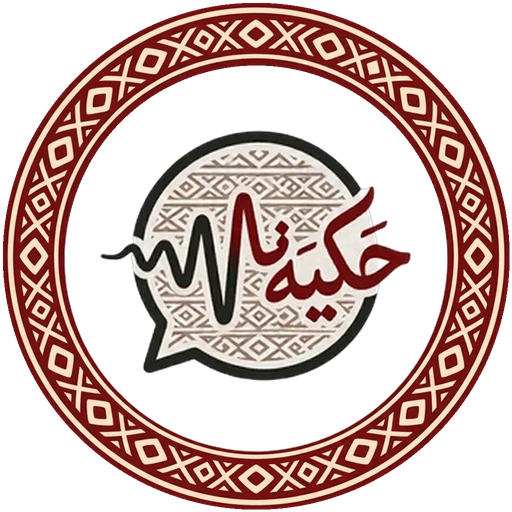
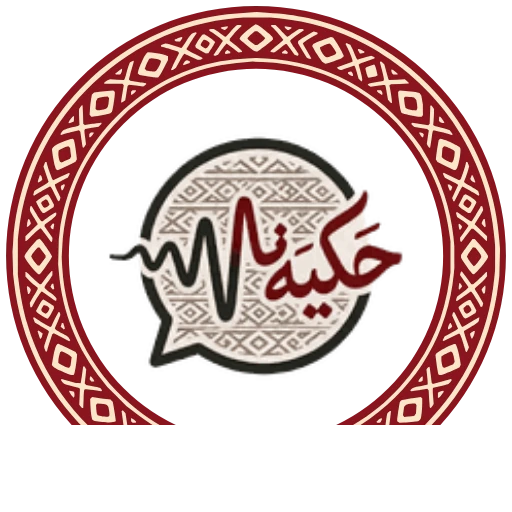
Give the mark its sadu frame, in two grounds
Both frames ship as vector, traced from the render rather than redrawn,
for the reason already recorded for the play button: a repeat built by
hand is a fraction of the size and does not look like the artwork anyone
chose. 38kB each, 15kB gzipped.

The mark is not baked into either of them. The frames carry the band
alone and SaduMark composites hakiya-mark.png into whichever is asked
for, so the logo keeps one source of truth on disk — clean it up later
and both variants follow. A test fails if a frame ever grows an <image>.

Sand is the default because clear is the variant that fails on a dark
surface: the mark's outline is near-black and needs something light to be
dark against. Defaulting to clear would put the broken case in every slot
that forgets the prop. Clear is for light surfaces, where a sand disc
reads as a second and slightly wrong shade.

Two numbers have to agree and nothing in the type system makes them: the
band's opening is 73% of the box and the mark sits at 62% of it. A test
holds the clearance, because crowding the band is what makes a framed
mark look like a sticker.

Wired into the emblem's fallback and nowhere else yet. That slot is a
round hole that took the bare mark with padding, a background and a ring
— three CSS properties standing in for the plate the artwork did not
have. All three go.

Not BrandMark, and the note in docs suggesting otherwise is corrected
here. That lockup's plate serves the wordmark as much as the mark, so
[…]

diff --git a/src/components/brand/SaduMark.test.tsx b/src/components/brand/SaduMark.test.tsx
@@ -1,0 +1,89 @@
+import { readFileSync } from "node:fs";
+import { render } from "@testing-library/react";
+import { describe, expect, it } from "vitest";
+import { MARK_WIDTH_PERCENT, SaduMark } from "./SaduMark";
+
+/**
+ * The framed mark.
+ *
+ * The component is thin — two images stacked — so the things worth guarding
+ * are the relationship between them and the artwork they come from. Both
+ * frames are traced output, the kind of file someone re-exports without
+ * noticing what it cost to get.
+ */
+
+const SAND = readFileSync("src/assets/sadu-frame-sand.svg", "utf8");
+const CLEAR = readFileSync("src/assets/sadu-frame.svg", "utf8");
+
+/** The band's inner edge, read off the annulus the frame is drawn with. */
+const innerRadius = (svg: string) =>
+  Number(svg.match(/A(\d+\.?\d*) \1 0 1 0/g)?.slice(-1)[0]?.match(/[\d.]+/)?.[0] ?? NaN);
+
+describe("SaduMark", () => {
+  it("is ornament unless it is given a label", () => {
+    const { container, rerender } = render(<SaduMark />);
+    expect(container.querySelector("span")).toHaveAttribute("aria-hidden", "true");
+
+    rerender(<SaduMark title="Hakiya" />);
+    const labelled = container.querySelector("span");
+    expect(labelled).toHaveAttribute("role", "img");
+    expect(labelled).toHaveAttribute("aria-label", "Hakiya");
+    expect(labelled).not.toHaveAttribute("aria-hidden");
+  });
+
+  it("composites the mark in rather than baking it into the frames", () => {
+    // The logo has one source of truth on disk. If the frames ever carry the
+    // mark themselves, cleaning it up means editing artwork in three places
+    // and the three will drift.
+    const { container } = render(<SaduMark />);
+    const srcs = Array.from(container.querySelectorAll("img")).map((i) => i.getAttribute("src"));
+
+    expect(srcs).toHaveLength(2);
+    expect(srcs.some((s) => s?.includes("hakiya-mark"))).toBe(true);
+    expect(SAND).not.toContain("<image");
+    expect(CLEAR).not.toContain("<image");
+  });
+
+  it("defaults to the ground-bearing frame", () => {
+    // `clear` is the one that fails on a dark surface — the mark's outline is
+    // near-black and needs something light to be dark against. Defaulting to
+    // it would put the broken case in every slot that forgets the prop.
+    const { container, rerender } = render(<SaduMark />);
+    const first = container.querySelector("img")?.getAttribute("src");
+
+    rerender(<SaduMark variant="clear" />);
+    expect(container.querySelector("img")?.getAttribute("src")).not.toBe(first);
+  });
+
+  it("takes its size from the caller", () => {
+    const { container } = render(<SaduMark className="h-10 w-10" />);
+    expect(container.querySelector("span")).toHaveClass("h-10", "w-10");
+  });
+});
+
+describe("the sadu-frame artwork", () => {
+  it("leaves the mark clearance inside the band", () => {
+    // The mark is sized as a percentage of the box, the opening is a radius in
+    // the artwork, and nothing in the type system connects the two. Crowding
+    // the band is what makes a framed mark look like a sticker.
+    const opening = (innerRadius(SAND) / 32) * 100; // as a % of the box's width
+    expect(opening).toBeGreaterThan(MARK_WIDTH_PERCENT + 8);
+  });
+
+  it("differs from the clear frame only by the ground", () => {
+    // Same band, same radii — the two variants must stay the same object with
+    // and without a floor, or `clear` quietly becomes a different mark.
+    expect(innerRadius(CLEAR)).toBeCloseTo(innerRadius(SAND), 1);
+    expect(SAND).toContain('fill="#F2E7D5"');
+    expect(CLEAR).not.toContain("#F2E7D5");
+  });
+
+  it("keeps the traced band rather than a simplified stand-in", () => {
+    // A repeat built by hand is a fraction of the size and does not look like
+    // the artwork that was chosen. If this collapses, someone has "optimised"
+    // it into one.
+    const weft = SAND.match(/<path d="([^"]+)" fill="#FAE7C7"/)?.[1] ?? "";
+    expect(weft.length).toBeGreaterThan(20_000);
+    expect(weft).toContain("C");
+  });
+});

diff --git a/src/components/brand/SaduMark.tsx b/src/components/brand/SaduMark.tsx
@@ -1,0 +1,93 @@
+import { cn } from "@/lib/utils";
+
+import frameSand from "@/assets/sadu-frame-sand.svg";
+import frameClear from "@/assets/sadu-frame.svg";
+import hakiyaMark from "@/assets/hakiya-mark.png";
+
+/**
+ * The Hakiya mark, framed in a band of Sadu weave.
+ *
+ * The mark on its own is a speech bubble with an open silhouette and a
+ * transparent ground, and both of those turn into problems the moment it sits
+ * on anything but flat paper. On the app's own sadu border it put pattern on
+ * pattern; on a dark ground its outline and tail are near-black, so the
+ * silhouette stopped having an edge and by 32px it read as a smudge. Every
+ * surface that wanted the mark ended up drawing a plate behind it in CSS.
+ *
+ * The band moves that plate into the artwork, where it belongs. Outside the
+ * band the file is still genuinely transparent — that was the point of framing
+ * rather than filling in behind — so this still sits on a page rather than in
+ * a box.
+ *
+ * Two variants, because the ground inside the band is the part that has to
+ * change:
+ *
+ * - `sand` puts the mark on the app's sand. It is the default and it is the
+ *   one to reach for, because it is the only version that holds on a dark
+ *   ground: the mark's own outline needs something light to be dark against.
+ * - `clear` leaves the middle open. Use it where the surface behind is already
+ *   light and a sand disc would read as a second, slightly-wrong shade — the
+ *   app's own sand pages, or over pale artwork.
+ *
+ * **The mark itself is not baked into either frame.** The frames are the band
+ * alone; this composites `hakiya-mark.png` into them at render time, so the
+ * logo has exactly one source of truth on disk. If the mark is ever cleaned
+ * up, one file changes and both frames follow.
+ *
+ * The band is traced from the artwork it was chosen off rather than redrawn,
+ * for the same reason recorded for the play button in
+ * `docs/play-button-directions.md`: a hand-built repeat is a fraction of the
+ * size and does not look like the thing anybody agreed to.
+ *
+ * Not used in `BrandMark`, deliberately. That lockup already rides a plate,
+ * and the plate is there for the *wordmark* as much as the mark — so a framed
+ * mark inside it would be a ground sitting on a ground. The frame earns its
+ * place where the mark stands alone in a round slot.
+ */
+
+/**
+ * How much of the box the mark occupies, as a percentage of its width.
+ *
+ * The band's inner edge is at r=23.393 of a 64 viewBox, so the opening is 73%
+ * of the box. The mark is set well inside that: it is wider than it is tall,
+ * and crowding the band is what makes a framed mark look like a sticker.
+ */
+export const MARK_WIDTH_PERCENT = 62;
+
+export type SaduMarkVariant = "sand" | "clear";
+
+export interface SaduMarkProps {
+  /** `sand` unless the surface behind is already light. */
+  variant?: SaduMarkVariant;
+  /** Sizing lives here — the art has no intrinsic size. */
+  className?: string;
+  /** Give it a label only where it carries meaning of its own. */
+  title?: string;
+}
+
+export function SaduMark({ variant = "sand", className, title }: SaduMarkProps) {
+  return (
+    <span
+      role={title ? "img" : undefined}
+      aria-label={title}
+      aria-hidden={title ? undefined : true}
+      className={cn("relative block aspect-square", className)}
+    >
+      <img
+        src={variant === "sand" ? frameSand : frameClear}
+        alt=""
+        aria-hidden
+        className="absolute inset-0 h-full w-full"
+        draggable={false}
+      />
+      <img
+        src={hakiyaMark}
+        alt=""
+        aria-hidden
+        className="absolute left-1/2 top-1/2 -translate-x-1/2 -translate-y-1/2"
+        style={{ width: `${MARK_WIDTH_PERCENT}%` }}
+        draggable={false}
+      />
+    </span>
+  );
+}

diff --git a/src/components/shell/ProfileEmblem.tsx b/src/components/shell/ProfileEmblem.tsx
@@ -2,7 +2,7 @@ import { useState } from "react";
 import { Link } from "react-router-dom";
 import { cn } from "@/lib/utils";
 import { useProfileAvatar } from "@/hooks/useProfileAvatar";
-import hakiyaMark from "@/assets/hakiya-mark.png";
+import { SaduMark } from "@/components/brand/SaduMark";
 
 /**
  * Your face, as the way into your profile.
@@ -82,19 +82,23 @@ export function ProfileEmblemView({
           className="absolute inset-0 rounded-full ring-2 ring-primary ring-offset-2 ring-offset-transparent"
         />
       )}
-      <img
-        src={src ?? hakiyaMark}
-        alt=""
-        aria-hidden
-        onError={src ? () => setBrokenUrl(src) : undefined}
-        className={cn(
-          "h-full w-full rounded-full ring-1 ring-border",
-          // A photo or a woven medallion fills the disc; the mark is artwork
-          // with its own silhouette, so cropping it to a circle would cut it.
-          src ? "object-cover" : "bg-background object-contain p-0.5",
-        )}
-        draggable={false}
-      />
+      {src ? (
+        <img
+          src={src}
+          alt=""
+          aria-hidden
+          onError={() => setBrokenUrl(src)}
+          className="h-full w-full rounded-full object-cover ring-1 ring-border"
+          draggable={false}
+        />
+      ) : (
+        // The mark used to be dropped into this slot as bare artwork, which
+        // meant padding it, giving it a background and ringing it — three CSS
+        // properties standing in for the plate it did not have. The framed
+        // mark is already a disc with its own edge, so all of that goes, and
+        // the fallback stops looking like a picture that failed to fill.
+        <SaduMark className="h-full w-full" />
+      )}
     </Link>
   );
 }

diff --git a/e2e/shell.spec.ts b/e2e/shell.spec.ts
@@ -122,8 +122,14 @@ test.describe("the emblem's picture", () => {
 
     // Anything but an empty grey disc. The mark is bundled, so the build
     // fingerprints its filename — the stem is the stable half of the URL.
+    //
+    // Two images, not one: the fallback is the mark inside its Sadu frame, and
+    // the frame is a separate file on purpose so the logo has a single source
+    // of truth. Both halves are pinned, because a frame with nothing in it and
+    // a mark with nothing around it are each a plausible way for this to break.
     const emblem = page.getByRole("link", { name: /Your account/ }).first();
-    await expect(emblem.locator("img")).toHaveAttribute("src", /hakiya-mark/);
+    await expect(emblem.locator('img[src*="hakiya-mark"]')).toBeVisible();
+    await expect(emblem.locator('img[src*="sadu-frame"]')).toBeVisible();
   });
 
   test("does not take the corner off the mark to do it", async ({ page, signInAs }) => {

diff --git a/docs/mark-framing.md b/docs/mark-framing.md
@@ -44,23 +44,51 @@ So the six split in two:
 | 4 | Sadu band on sand | sand | yes |
 | 5 | App tile (squircle) | sand + ink rule | yes |
 
-## Recommendation
+## Built: 4 primary, 3 kept
 
-**4, sadu band on sand.** It keeps the file clear outside the frame, it holds on
-every ground the app uses, and it is the only one that is also *of* this app —
-the same woven band as `border-full-page.webp` and the traced play button, so
-the mark stops being the one piece of the identity that does not reference the
-cloth. **2** is the restrained version of the same idea and the safer favicon.
+Both ship as vector. `src/assets/sadu-frame-sand.svg` (option 4) and
+`src/assets/sadu-frame.svg` (option 3) are the band alone, traced from the
+render with `potrace` — 38 KB each, 15 KB gzipped. `src/components/brand/SaduMark.tsx`
+composites `hakiya-mark.png` into whichever frame is asked for:
 
-## What a framed mark would let us delete
+```tsx
+<SaduMark />                  // sand — the default
+<SaduMark variant="clear" />  // open middle, for light surfaces
+```
 
-`src/components/shell/BrandMark.tsx` draws its own plate in CSS
-(`bg-background/85`, a ring, a backdrop-blur) and its comment says why: the mark
-has a transparent ground and an open silhouette, so on the chooser it landed on
-the page's sadu border and pattern showed through pattern. A framed mark carries
-that plate in the artwork instead, at every size and on every surface.
+**The mark is not baked into either frame.** The frames carry only the band, so
+the logo keeps one source of truth on disk: clean the mark up later and both
+variants follow. `SaduMark.test.tsx` fails if a frame ever grows an `<image>`.
 
-Before any of this ships, the sadu band in 3 and 4 wants the treatment the play
-button got — traced to vector rather than shipped as a raster — for the same
-reason recorded in `docs/play-button-directions.md`: a woven band stops
-resolving as raster below about 32px, and the mark renders at 32.
+`sand` is the default because `clear` is the one that fails on a dark surface —
+the mark's outline is near-black and needs something light to be dark against.
+Defaulting to `clear` would put the broken case in every slot that forgets the
+prop. Reach for `clear` where the surface behind is already light and a sand
+disc would read as a second, slightly-wrong shade: the app's own sand pages, or
+over pale artwork.
+
+The band's inner edge is at r=23.393 of a 64 viewBox — a 73% opening — and the
+mark is set at 62% of the box. Nothing in the type system connects those two
+numbers, so a test does; crowding the band is what makes a framed mark look
+like a sticker.
+
+### Where it is wired
+
+`ProfileEmblem`'s fallback, and only there for now. That slot is a round hole
+that previously took the bare mark with padding, a background and a ring —
+three CSS properties standing in for the plate the artwork did not have. All
+three are gone.
+
+**Not `BrandMark`**, deliberately, and the earlier note in this file suggesting
+otherwise was wrong. That lockup's plate is there for the *wordmark* as much as
+the mark, so it cannot be deleted by framing the mark; and a framed mark inside
+a plated lockup is a ground sitting on a ground. The frame earns its place
+where the mark stands alone in a round slot.
+
+The four admin pages that use `hakiya-mark.png` as a small icon are untouched.
+
+## The reference art
+
+`docs/branding/mark-frames/` holds all six at 512px with alpha. 3 and 4 are
+rendered from the shipped vector, so they match what the app draws; 1, 2, 5 and
+6 are the raster explorations and stay that way.
